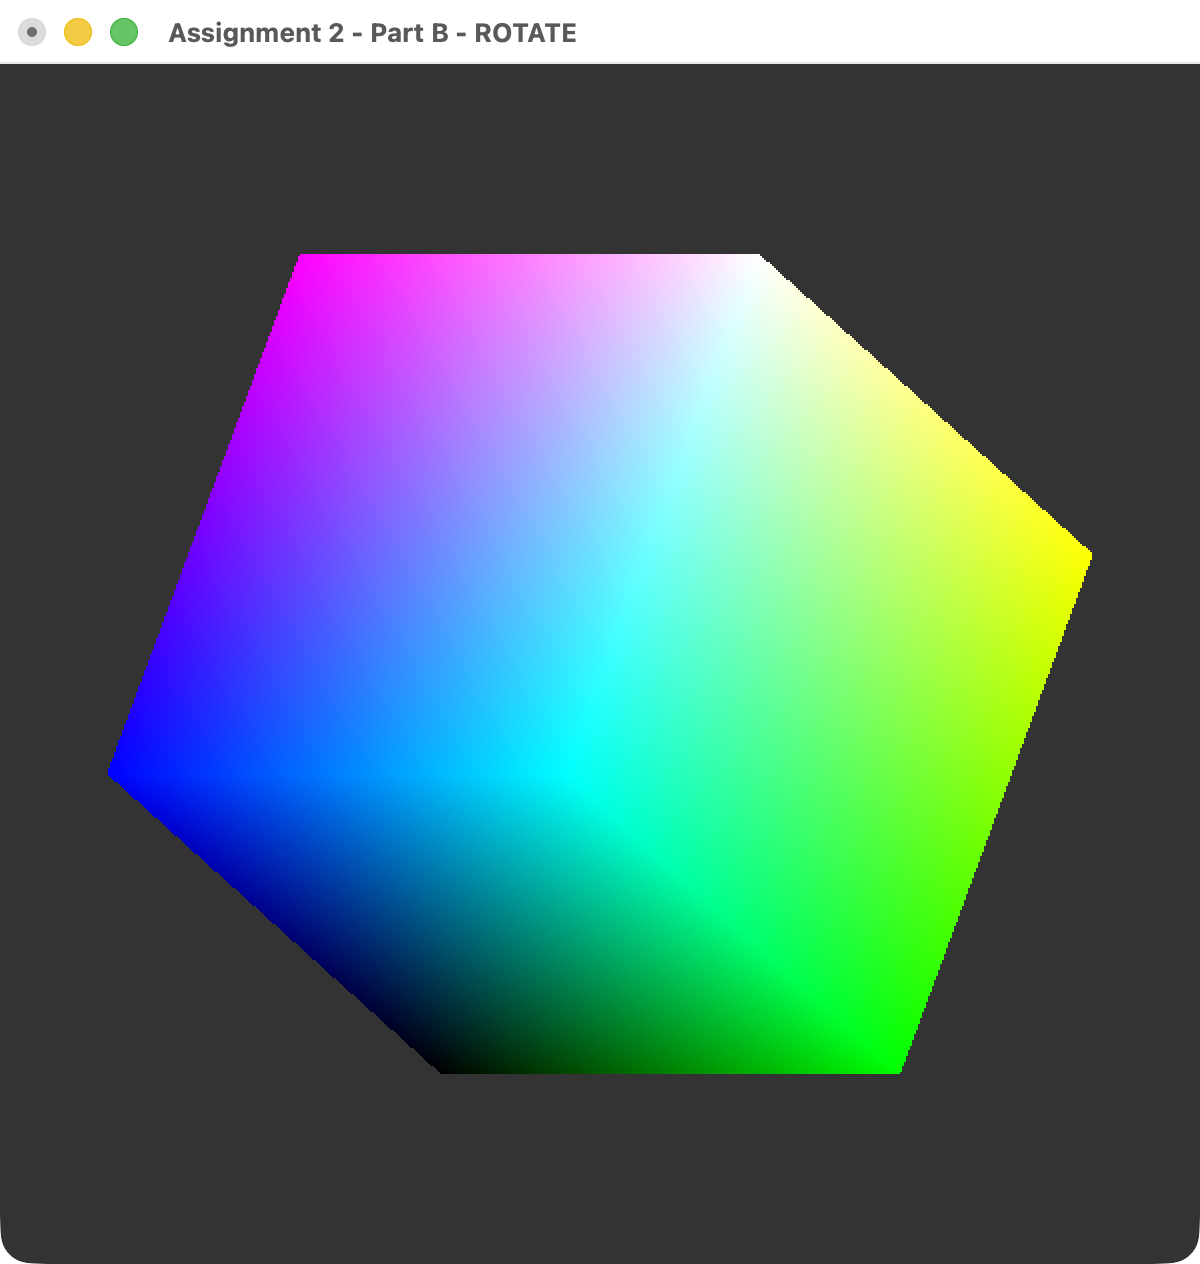
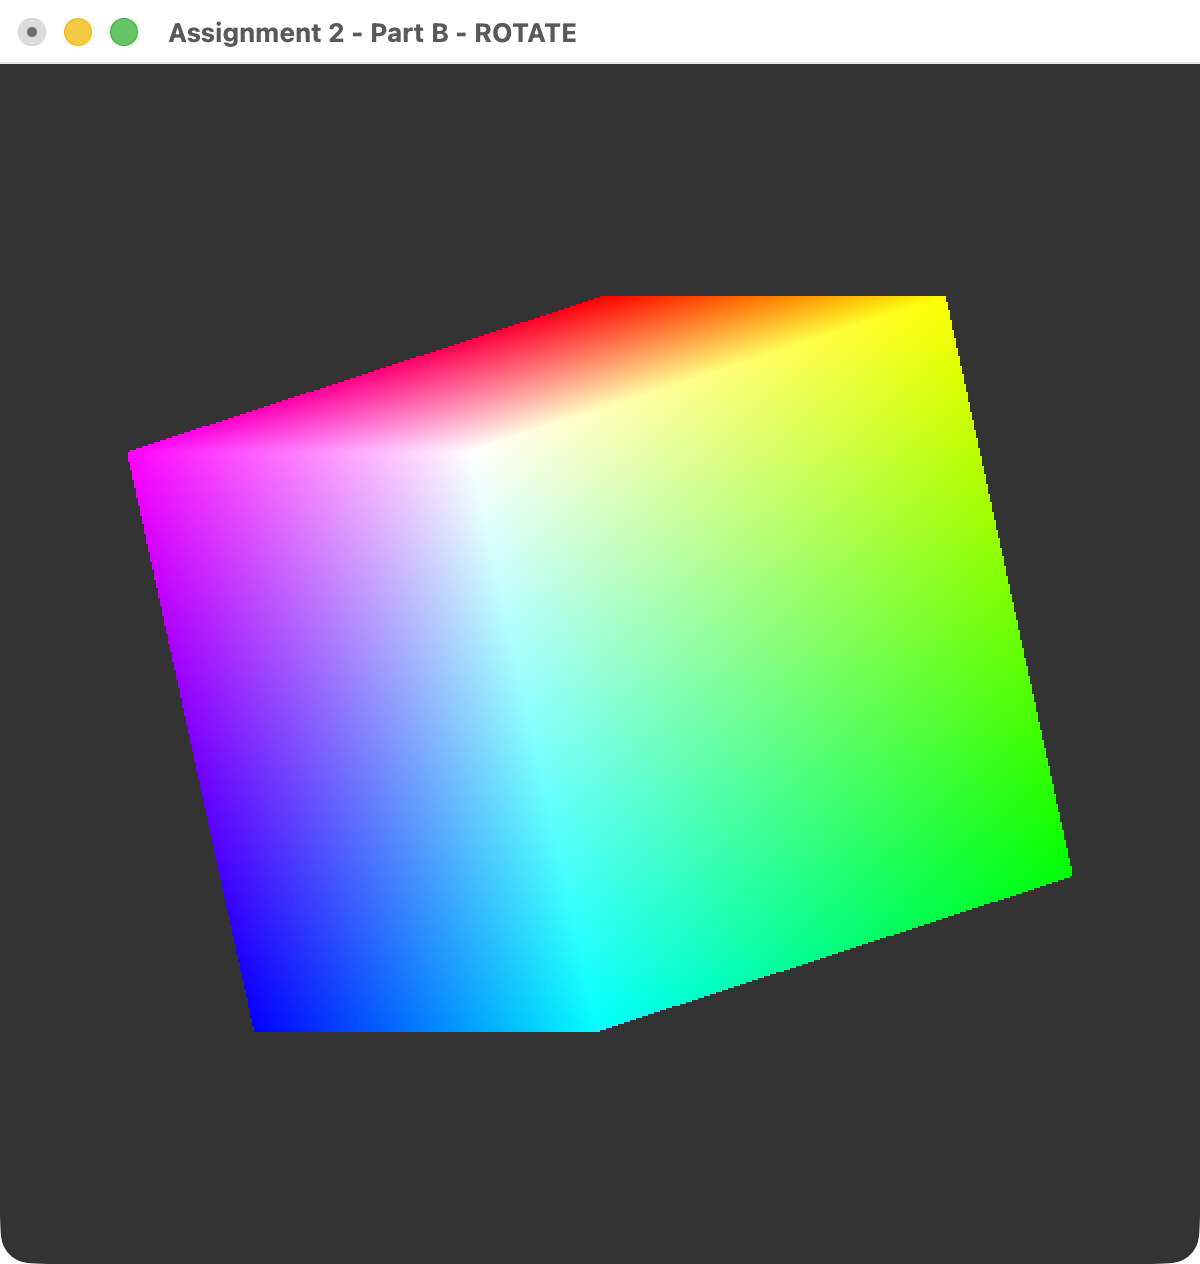
Start the cube with the white corner towards the viewer, add GLEW init
Part B starts rotated -45 degrees about X and 35 degrees about Y, so the
white corner is in the centre and three faces are visible; r returns
to this view. Part A and Part B call glewInit on non-Apple platforms
after each window is created. Retake the Part B screenshots and update
the report.

diff --git a/ay240782_a2/partB.cpp b/ay240782_a2/partB.cpp
@@ -47,6 +47,7 @@ GLfloat vertexColors[8][3] = {
 
 enum { SCALE, ROTATE, TRANSLATE };
 
+const GLfloat DEFAULT_ROTATE[3] = { -45.0f, 35.0f, 0.0f };
 const GLfloat DEFAULT_DELTA[3] = { 0.1f, 10.0f, 0.1f };
 
 int mode = ROTATE;
@@ -164,7 +165,7 @@ void resetTransformations()
 {
     for (int i = 0; i < 3; i++) {
         scaleXYZ[i] = 1.0f;
-        rotateXYZ[i] = 0.0f;
+        rotateXYZ[i] = DEFAULT_ROTATE[i];
         translateXYZ[i] = 0.0f;
         delta[i] = DEFAULT_DELTA[i];
     }
@@ -192,9 +193,10 @@ void printInstructions()
     printf("  w / s   increase / decrease Y\n");
     printf("  e / d   increase / decrease Z\n");
     printf("  + / -   double / halve the delta of the current transformation\n");
-    printf("  r       reset all transformations and deltas\n");
+    printf("  r       reset to the initial view and the default deltas\n");
     printf("  Esc     quit\n");
     printf("\n");
+    printf("Initial view: rotate X -45, Y 35 degrees (white corner towards the viewer)\n");
     printf("Default deltas: scale 0.1, rotate 10 degrees, translate 0.1\n");
     printf("The model matrix is M = T * R * S with R = Rz * Ry * Rx\n");
     fflush(stdout);
@@ -293,6 +295,11 @@ int main(int argc, char** argv)
 
     glutInitWindowSize(600, 600);
     glutCreateWindow("Assignment 2 - Part B - ROTATE");
+
+#ifndef __APPLE__
+    glewExperimental = GL_TRUE;
+    glewInit();
+#endif
 
     init();
 

diff --git a/ay240782_a2/partA.cpp b/ay240782_a2/partA.cpp
@@ -332,6 +332,11 @@ void createMainWindow()
     glutInitWindowPosition(100, 100);
     mainWindow = glutCreateWindow("Assignment 2 - Part A");
 
+#ifndef __APPLE__
+    glewExperimental = GL_TRUE;
+    glewInit();
+#endif
+
     buildMainScene();
     initScene(mainScene);
     glClearColor(0.0, 0.0, 0.0, 1.0);
@@ -356,6 +361,11 @@ void createSubWindow()
 {
     subWindow = glutCreateSubWindow(mainWindow, 10, 10, 170, 110);
 
+#ifndef __APPLE__
+    glewExperimental = GL_TRUE;
+    glewInit();
+#endif
+
     buildSubScene();
     initScene(subScene);
 
@@ -374,6 +384,11 @@ void createWindow2()
     glutInitWindowSize(600, 600);
     glutInitWindowPosition(700, 100);
     window2 = glutCreateWindow("window 2");
+
+#ifndef __APPLE__
+    glewExperimental = GL_TRUE;
+    glewInit();
+#endif
 
     buildScene2();
     initScene(scene2);

diff --git a/ay240782_a2/report.md b/ay240782_a2/report.md
@@ -400,8 +400,9 @@ with `transpose = GL_TRUE`. The vertex shader only multiplies:
 
 **Keys and deltas.** The current transformation is chosen in the menu. Six keys
 add or subtract its delta on X, Y or Z. `+` doubles and `-` halves the delta of the
-current transformation, and `r` resets everything. Each transformation has its
-own delta: 0.1 for scale, 10 degrees for rotation and 0.1 for translation.
+current transformation, and `r` returns to the initial view: scale 1, rotation
+−45° about X and 35° about Y, and no translation. Each transformation has its own
+delta: 0.1 for scale, 10 degrees for rotation and 0.1 for translation.
 
 ```cpp
 case 'q': v[0] += delta[mode]; break;
@@ -518,21 +519,23 @@ frames were captured two seconds apart and are identical byte for byte.
 
 ![Fig.12](screenshots/partB_01_initial.png)
 
-***Fig.12 The cube at start-up, with no transformation***
+***Fig.12 The cube at start-up: rotated −45° about X and 35° about Y***
 
-Figure 12 illustrates the cube with the identity matrix. Without a projection the
-view looks straight along the Z axis, so only one face is visible. In normalized
-device coordinates the Z axis points into the screen, so the depth test keeps the
-face with the smaller Z: the face at `z = −0.5` with the blue, magenta, white and
-cyan corners.
+Figure 12 illustrates the initial view of the cube, the same as in the picture of
+the assignment. The program starts with a rotation of −45° about X and 35° about
+Y, which turns the white corner towards the viewer and places it in the centre of
+the window. Three faces meet at this corner, each with a gradient between the
+colours of its corners, and the depth test hides the three back faces. Because the
+rotation about X is applied first (`R = Rz * Ry * Rx`), X needs −45° and Y needs
+35°.
 
 ![Fig.13](screenshots/partB_02_rotated.png)
 
-***Fig.13 The cube after ROTATE: 30° about X and 40° about Y***
+***Fig.13 The cube after ROTATE: X changed from −45° to −15° and Y from 35° to 55°***
 
-Figure 13 illustrates the cube after pressing q three times and w four times in
-ROTATE mode. Three faces are visible, each with a gradient between the colours of
-its corners, and the depth test hides the back faces.
+Figure 13 illustrates the cube after pressing q three times and w twice in ROTATE
+mode. Each press adds the rotation delta of 10°, so the white corner moves away
+from the centre and the cube turns to show more of its green and cyan faces.
 
 ![Fig.14](screenshots/partB_03_scaled.png)
 
@@ -567,8 +570,9 @@ to 20°, and two presses of 'e' rotated the cube by 40° about Z.
 
 ***Fig.18 The cube after pressing r***
 
-Figure 18 illustrates the reset key: all transformations and deltas return to
-their initial values, and the image is identical byte for byte to Fig.12.
+Figure 18 illustrates the reset key: the cube returns to the initial view (scale
+1, rotation −45° about X and 35° about Y, no translation) and the deltas return to
+their default values. The image is identical byte for byte to Fig.12.
 
 ![Fig.19](screenshots/partB_08_menu.png)
 
@@ -719,21 +723,21 @@ is built on the CPU and applied in the vertex shader.
 
 | Requirement | Where it is met |
 |---|---|
-| A1. Double buffering | `GLUT_DOUBLE` in `main()` (partA.cpp 391, 393); `glutSwapBuffers()` in every display function (190, 201, 214) |
-| A2. Main window with the black & white square | `createMainWindow()` 329–353, `buildMainScene()` 148–157 |
-| A3. Ellipse in a subwindow with its own display and background | `createSubWindow()` 355–370 (`glutCreateSubWindow` 357), `displaySub()` 193–202 |
-| A4. Menu only in the subwindow for its background | `subMenu()` 260–272, attached in `createSubWindow()` 364–369 |
-| A5. Circle and triangle in "window 2", colour keys | `createWindow2()` 372–384, `keyboard2()` 301–321 |
+| A1. Double buffering | `GLUT_DOUBLE` in `main()` (partA.cpp 406, 408); `glutSwapBuffers()` in every display function (190, 201, 214) |
+| A2. Main window with the black & white square | `createMainWindow()` 329–358, `buildMainScene()` 148–157 |
+| A3. Ellipse in a subwindow with its own display and background | `createSubWindow()` 360–380 (`glutCreateSubWindow` 362), `displaySub()` 193–202 |
+| A4. Menu only in the subwindow for its background | `subMenu()` 260–272, attached in `createSubWindow()` 374–379 |
+| A5. Circle and triangle in "window 2", colour keys | `createWindow2()` 382–399, `keyboard2()` 301–321 |
 | A6. Animation with an idle function | `idle()` 217–229, uniforms in `vshaderA.glsl`, `setTransform()` 141–146 |
-| A7. Main menu with Stop, Start and the Square Colors submenu | `createMainWindow()` 343–352, `mainMenu()` 237–243, `squareColorMenu()` 245–258 |
+| A7. Main menu with Stop, Start and the Square Colors submenu | `createMainWindow()` 348–357, `mainMenu()` 237–243, `squareColorMenu()` 245–258 |
 | A8. Extra credit: circles at left clicks | `mainMouse()` 274–299, drawn in `displayMain()` 185–188 |
-| B1. Colour cube with corner colours | `colorcube()` 81–89, `quad()` 71–79 in partB.cpp |
-| B2. Depth test | `GLUT_DEPTH` 287, 289; `glEnable(GL_DEPTH_TEST)` 232; `GL_DEPTH_BUFFER_BIT` 240 |
-| B3. Menu SCALE / ROTATE / TRANSLATE and `M = T * R * S` | menu 302–306, `menu()` 276–280, matrix in `display()` 242–245 |
-| B4–B6. Six axis keys, two delta keys, one reset key | `keyboard()` 253–274, `resetTransformations()` 163–171 |
-| B7. Matrix built on the CPU, applied in the vertex shader | `mat4` functions 91–161, `glUniformMatrix4fv` 247, `vshaderB.glsl` |
+| B1. Colour cube with corner colours | `colorcube()` 82–90, `quad()` 72–80 in partB.cpp |
+| B2. Depth test | `GLUT_DEPTH` 289, 291; `glEnable(GL_DEPTH_TEST)` 234; `GL_DEPTH_BUFFER_BIT` 242 |
+| B3. Menu SCALE / ROTATE / TRANSLATE and `M = T * R * S` | menu 309–313, `menu()` 278–282, matrix in `display()` 244–247 |
+| B4–B6. Six axis keys, two delta keys, one reset key | `keyboard()` 255–276, `resetTransformations()` 164–172 |
+| B7. Matrix built on the CPU, applied in the vertex shader | `mat4` functions 92–162, `glUniformMatrix4fv` 249, `vshaderB.glsl` |
 | B8. No camera or projection | `vshaderB.glsl` uses only `model * vPosition` |
-| B9. Instructions are the only output | `printInstructions()` 183–201, called once in `main()` 308 |
+| B9. Instructions are the only output | `printInstructions()` 184–203, called once in `main()` 315 |
 
 Several directions follow naturally. The most direct one is a camera and a
 projection matrix in Part B, so that translation along Z changes the apparent
@@ -878,7 +882,7 @@ relative paths.
 | w / s | Increase / decrease Y |
 | e / d | Increase / decrease Z |
 | + / - | Double / halve the delta of the current transformation |
-| r | Reset all transformations and deltas |
+| r | Reset to the initial view (rotation −45° about X, 35° about Y) and the default deltas |
 | Esc | Quit |
 
 ### 9.4 The vertex shader of Part B
